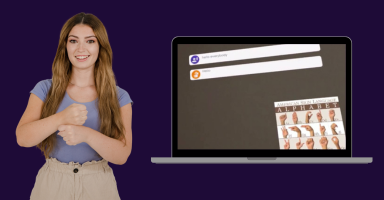
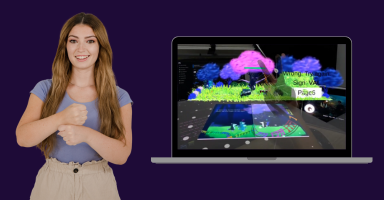
chore: added new project cards

Changed region(s): [[0.4375, 0.21, 0.9062, 0.75]]

diff --git a/src/components/ProjectCard.jsx b/src/components/ProjectCard.jsx
@@ -1,4 +1,5 @@
 import Tilt from 'react-parallax-tilt';
+import SgPersonalityQuiz from '../assets/projectImages/sgPersonalityQuiz.png'
 import Voia from '../assets/projectImages/voia.png'
 import PortfolioWeb from '../assets/projectImages/portfolioWeb.png'
 import YepWeb from '../assets/projectImages/yepWeb.png'
@@ -23,10 +24,20 @@ import Figma from '../assets/figma.png';
 
 const projectDetails =[
   {
+    title:'SG60 Personality Quiz',
+    image:SgPersonalityQuiz,
+    description:'Designed and programmed this website to celebrate SG60 with a unique personality quiz where users build their own Singapore in real time. As they make choices, their digital environment transforms in real time. At the end, they receive a personality result with a description and their personalized SG60 world to screenshot.',
+    references:[
+      {icon:Link,link:'https://passionarts2025-ebde6.web.app/'},
+      {icon:Github,link:'https://github.com/gwynethtan/PAssionArts2025'}
+    ]
+  },  
+  {
     title:'Voia',
     image:Voia,
-    description:'(IN PROGRESS) This mixed reality capstone project aims to assist deaf individuals by bridging communication gaps between sign language users and non-signers. It detects sign language, converts it into complete text and audio output, and also supports audio detection. I experimented with YOLOv5, XR Hands, and Google Cloud AI APIs for sign recognition and speech processing.',
+    description:'(IN PROGRESS) A mixed reality capstone project that bridges communication gaps for the deaf by translating sign language into spoken audio for hearing individals and speech to text for deaf users. It also has a variety of engaging storybooks that users can choose from to support sign language learning.',
     references:[
+      {icon:Github,link:'https://github.com/gwynethtan/CP04_Voia_UnityProject'}
     ]
   },
   {
